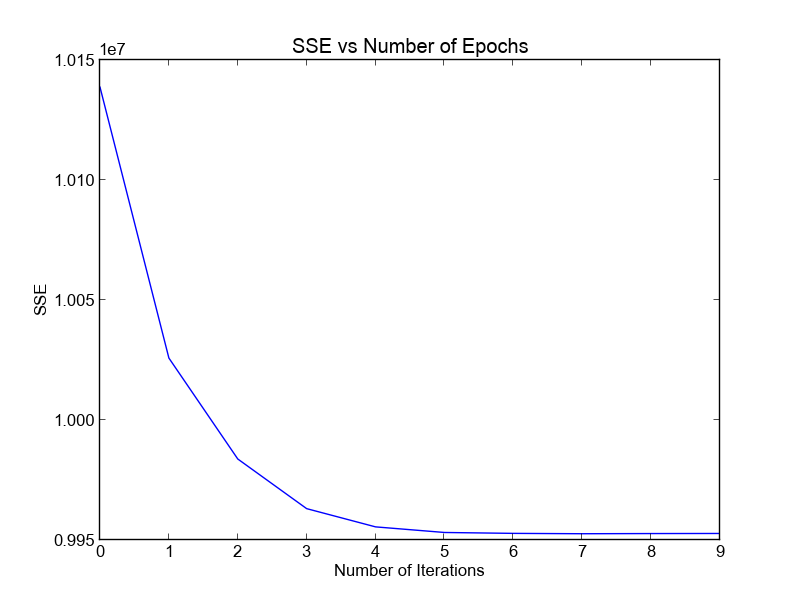
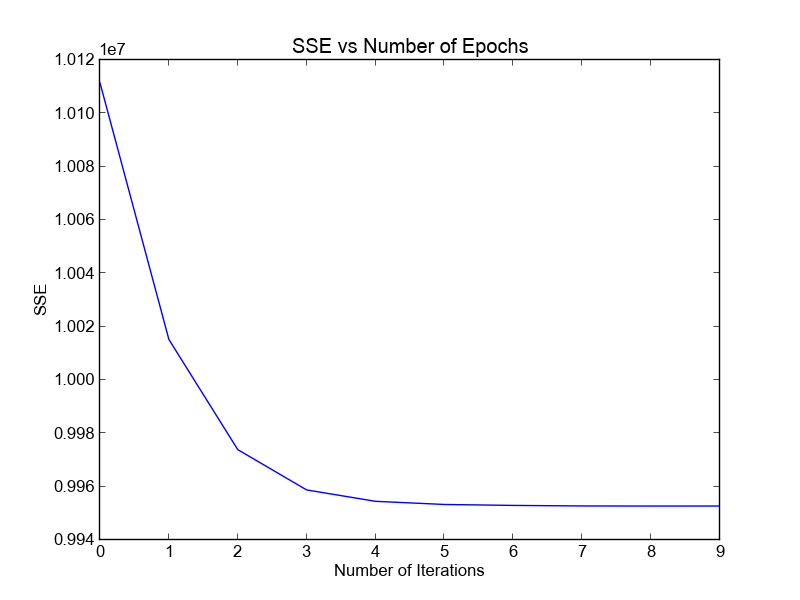
edit

diff --git a/assignment4/kmeans.py b/assignment4/kmeans.py
@@ -102,7 +102,7 @@ if __name__ == "__main__":
 
     plt.subplot(111)
     sses = []
-    for i in range(1, 10):
+    for i in range(1, 11):
         sse = []
         sse = kmeans(data, i+1, 10)
         sses.append(min(sse))

diff --git a/assignment4/README.md b/assignment4/README.md
@@ -27,9 +27,12 @@ Here is our plot of our SSE values vs the number of iterations.
 ![k = 2 SSE](./docs/sse-k2.png)
 
 ## 2. SSE k = 2-10 Vs 10 Iterations
+![k = 2-10 SSE](./docs/sse.png)
 Here is our plot of the SSE values vs the number of iterations at different
 values of k. The lowest SSE value we recorded was: ``8652667``.
-![k = 2-10 SSE](./docs/sse.png)
+
+Based on our graph we would choose ``k = 8`` or ``k = 9`` as they seemed to have
+the lowest SSE 'elbow.'
 
 # Hierarchical Agglomerative Clustering (HAC)
 
